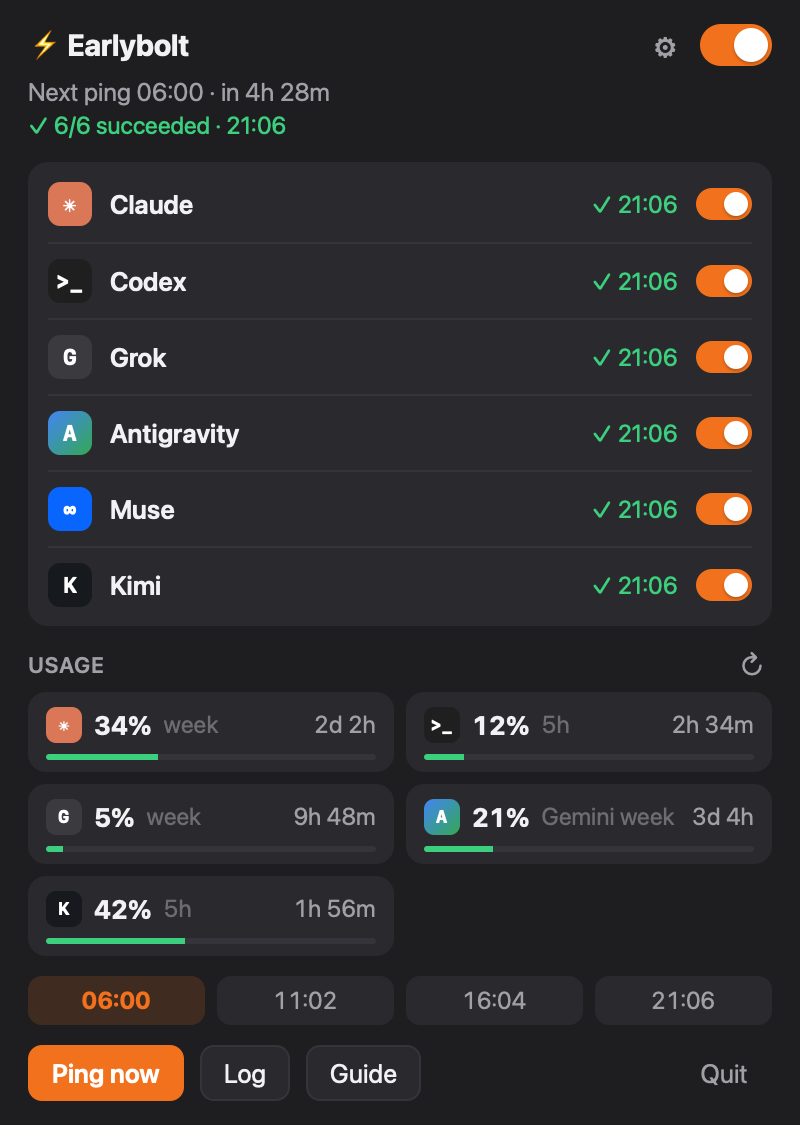
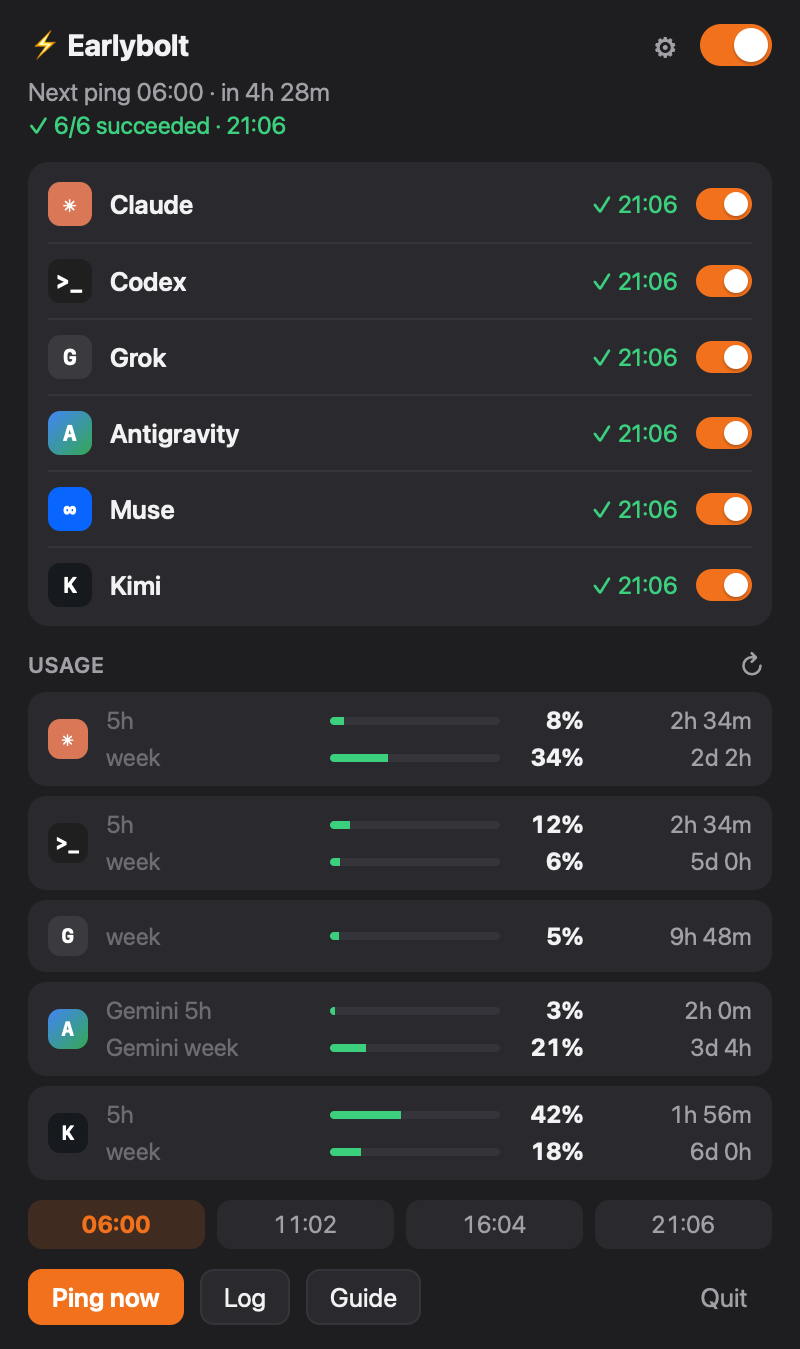
Usage: show the 5-hour and weekly windows together
Each service gets one row with both windows (bar, percent, time to reset)
instead of only its busiest window. Antigravity shows both windows of its
busiest model group.

diff --git a/src/main.js b/src/main.js
@@ -47,6 +47,21 @@ function until(ts) {
 const headline = (u) => u.windows.reduce((a, w) => (!a || w.used > a.used ? w : a), null);
 const windowName = (w) => `${w.group ? `${w.group} ` : ""}${T.kind[w.kind] || w.kind}`;
 
+/** The 5-hour and weekly windows to show; a service metering model groups separately shows its busiest group */
+function shownWindows(u) {
+  const top = headline(u);
+  const order = { "5h": 0, week: 1, month: 2 };
+  return u.windows.filter((w) => w.group === top.group).sort((a, b) => order[a.kind] - order[b.kind]);
+}
+
+function usageRow(w) {
+  const pct = Math.round(w.used);
+  const sev = pct >= 90 ? "bad" : pct >= 70 ? "warn" : "";
+  return `<div class="urow"><span class="faint ukind">${windowName(w)}</span>`
+    + `<div class="ubar"><div class="${sev}" style="width:${Math.max(pct, 1)}%"></div></div>`
+    + `<b class="pct ${sev}">${pct}%</b><span class="muted utime">${w.resets_at ? until(w.resets_at) : ""}</span></div>`;
+}
+
 function renderUsage() {
   const cells = state.tools.filter((t) => t.installed && t.has_usage).map((t) => {
     const u = t.usage;
@@ -58,15 +73,10 @@ function renderUsage() {
       tip = u.error;
     } else if (!u.windows.length) body = `<span class="faint">—</span>`;
     else {
-      const w = headline(u);
-      const pct = Math.round(w.used);
-      const sev = pct >= 90 ? "bad" : pct >= 70 ? "warn" : "";
-      body = `<b class="pct ${sev}">${pct}%</b><span class="faint ulabel grow">${windowName(w)}</span>`
-        + (w.resets_at ? `<span class="muted">${until(w.resets_at)}</span>` : "")
-        + `<div class="ubar"><div class="${sev}" style="width:${Math.max(pct, 1)}%"></div></div>`;
+      body = shownWindows(u).map(usageRow).join("");
       tip = u.windows.map((x) => `${windowName(x)}  ${Math.round(x.used)}%${x.resets_at ? ` · ${T.resets(when(x.resets_at))}` : ""}`).join("\n");
     }
-    return `<div class="ucell" title="${esc(tip)}">${badge(t.id)}${body}</div>`;
+    return `<div class="ucell" title="${esc(tip)}">${badge(t.id)}<div class="ulines">${body}</div></div>`;
   });
   $("usageBox").style.display = cells.length ? "" : "none";
   $("usage").innerHTML = cells.join("");

diff --git a/src/style.css b/src/style.css
@@ -92,16 +92,19 @@ header { margin-bottom: 4px; }
 .usage-head .refresh { font-size: 14px; margin-top: 6px; }
 .refresh.spin { animation: spin 1s linear infinite; }
 @keyframes spin { to { transform: rotate(360deg); } }
-.usage { display: grid; grid-template-columns: 1fr 1fr; gap: 6px; }
+.usage { display: grid; gap: 5px; }
 .ucell {
-  display: flex; flex-wrap: wrap; align-items: center; gap: 2px 6px; min-width: 0;
-  background: var(--card); border-radius: 9px; padding: 7px 9px 6px; min-height: 40px; font-size: 12px; font-variant-numeric: tabular-nums;
+  display: flex; align-items: center; gap: 9px;
+  background: var(--card); border-radius: 9px; padding: 6px 10px; min-height: 36px; font-size: 12px; font-variant-numeric: tabular-nums;
 }
-.ucell .badge { width: 18px; height: 18px; border-radius: 5px; font-size: 9px; }
-.ucell .pct { font-size: 13px; }
-.ucell .ulabel { overflow: hidden; text-overflow: ellipsis; white-space: nowrap; }
-.ucell > .faint:not(.ulabel) { overflow: hidden; text-overflow: ellipsis; white-space: nowrap; flex: 1; min-width: 0; }
-.ubar { flex-basis: 100%; height: 3px; background: var(--line); border-radius: 2px; overflow: hidden; margin-top: 3px; }
+.ucell .badge { width: 20px; height: 20px; border-radius: 6px; font-size: 10px; }
+.ulines { flex: 1; min-width: 0; display: grid; row-gap: 2px; }
+.ulines > .faint { overflow: hidden; text-overflow: ellipsis; white-space: nowrap; }
+.urow { display: grid; grid-template-columns: 104px 1fr 34px 76px; align-items: center; gap: 8px; }
+.ukind { overflow: hidden; text-overflow: ellipsis; white-space: nowrap; }
+.urow .pct { text-align: right; }
+.utime { text-align: right; white-space: nowrap; }
+.ubar { height: 4px; background: var(--line); border-radius: 2px; overflow: hidden; }
 .ubar div { height: 100%; background: var(--ok); }
 .ubar div.warn { background: var(--accent); }
 .ubar div.bad { background: var(--bad); }
